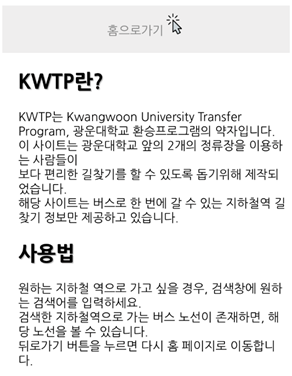
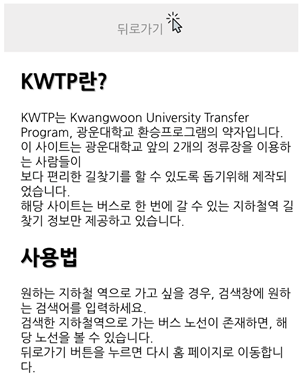
Add files via upload

diff --git a/contents_tech.html b/contents_tech.html
@@ -111,7 +111,7 @@
          <li>&lt;header&gt; : 상단바작성<br>
            <a href="https://chaerim26.github.io/KWTP/index.html"><img src="3_h.png"
              width="50%" height="50%"></a><br>
-             <a href="https://chaerim26.github.io/KWTP/guide.html"><img src="3_h3.png"
+             <a href="https://chaerim26.github.io/KWTP/guide.html"><img src="3_h2.png"
                width="50%" height="50%"></a><br>
                <a href="https://chaerim26.github.io/KWTP/contents.html"><img src="3_h3.png"
                  width="50%" height="50%"></a>
@@ -146,7 +146,7 @@
          <li>&lt;button&gt; : 검색,홈으로가기,뒤로가기<br>
            <a href="https://chaerim26.github.io/KWTP/index.html"><img src="3_fib.png"
              width="50%" height="50%"></a><br>
-             <a href="https://chaerim26.github.io/KWTP/guide.html"><img src="3_h3.png"
+             <a href="https://chaerim26.github.io/KWTP/guide.html"><img src="3_h2.png"
                width="50%" height="50%"></a>
                <a href="https://chaerim26.github.io/KWTP/contents.html"><img src="3_h3.png"
                  width="50%" height="50%"></a>
@@ -202,7 +202,7 @@
           해당 버튼을 누르면 동적 동작이 가능<br>
           <a href="https://chaerim26.github.io/KWTP/index.html"><img src="3_fib.png"
             width="50%" height="50%"></a><br>
-            <a href="https://chaerim26.github.io/KWTP/guide.html"><img src="3_h3.png"
+            <a href="https://chaerim26.github.io/KWTP/guide.html"><img src="3_h2.png"
               width="50%" height="50%"></a>
               <a href="https://chaerim26.github.io/KWTP/contents.html"><img src="3_h3.png"
                 width="50%" height="50%"></a>
